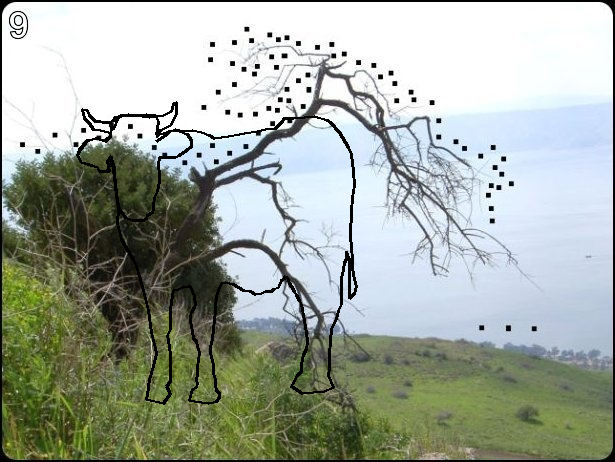
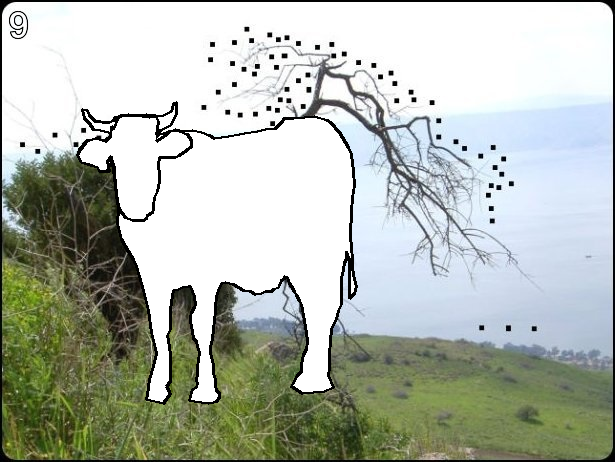
6th mission

Changed region(s): [[0.1236, 0.2424, 0.587, 0.8788]]

diff --git a/unit_6/connected_dots_image.py b/unit_6/connected_dots_image.py
@@ -51,12 +51,16 @@ def main():
     # image background is the image "/image.jpg"
     img = Image.open(str(Path.cwd()) + '/image.jpg')
     draw = ImageDraw.Draw(img)
-    draw.line(first, fill='black', width=3)
 
-    # draw a line from the second list of dots
+    # Draw the cow's shape
+    draw.polygon(first, outline='black', fill='white')
+    draw.polygon(second, outline='black', fill='white')
+
+    # Draw lines connecting the dots
+    draw.line(first, fill='black', width=3)
     draw.line(second, fill='black', width=3)
 
-    # save the image
+    # Save the new image with the draw
     img.save('image.png')
     img.show()
 
